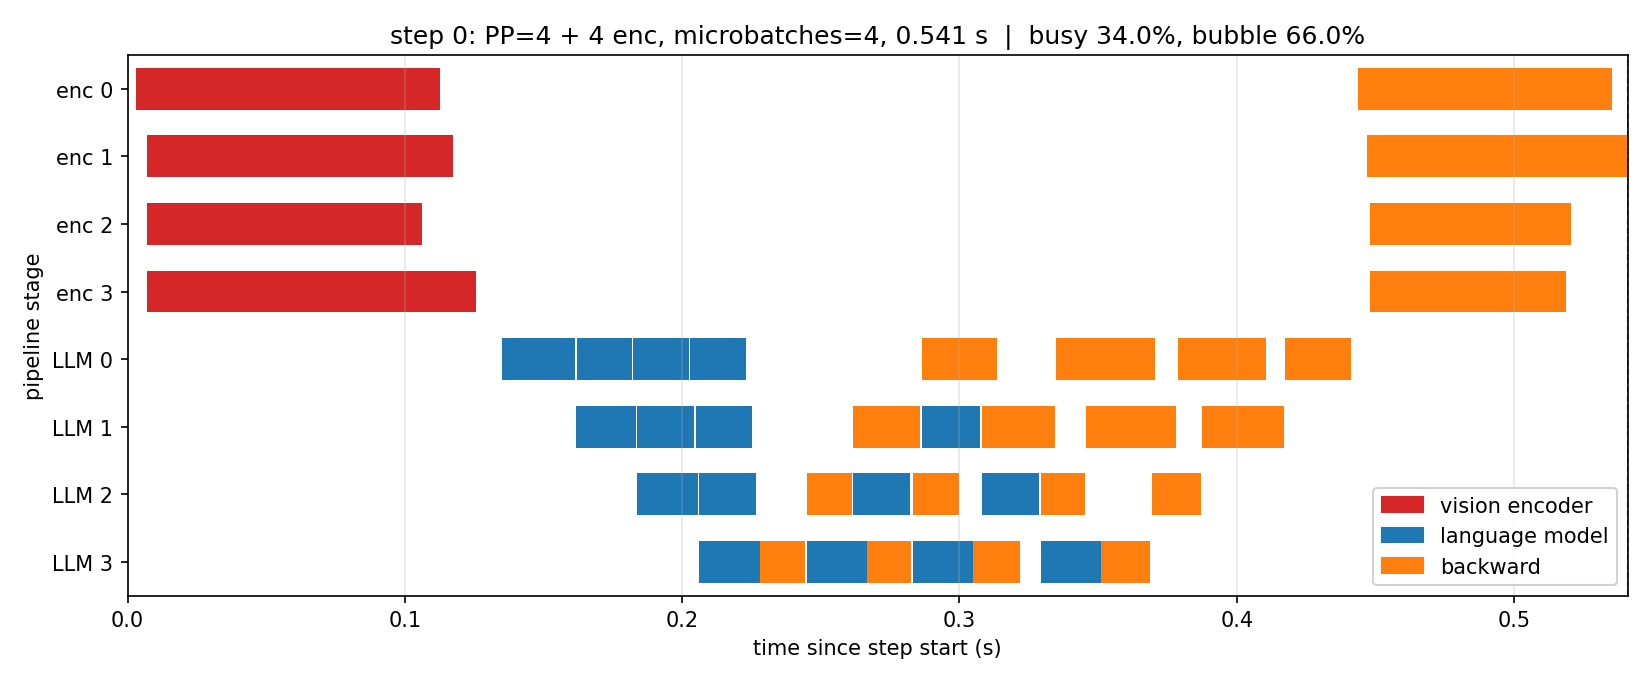
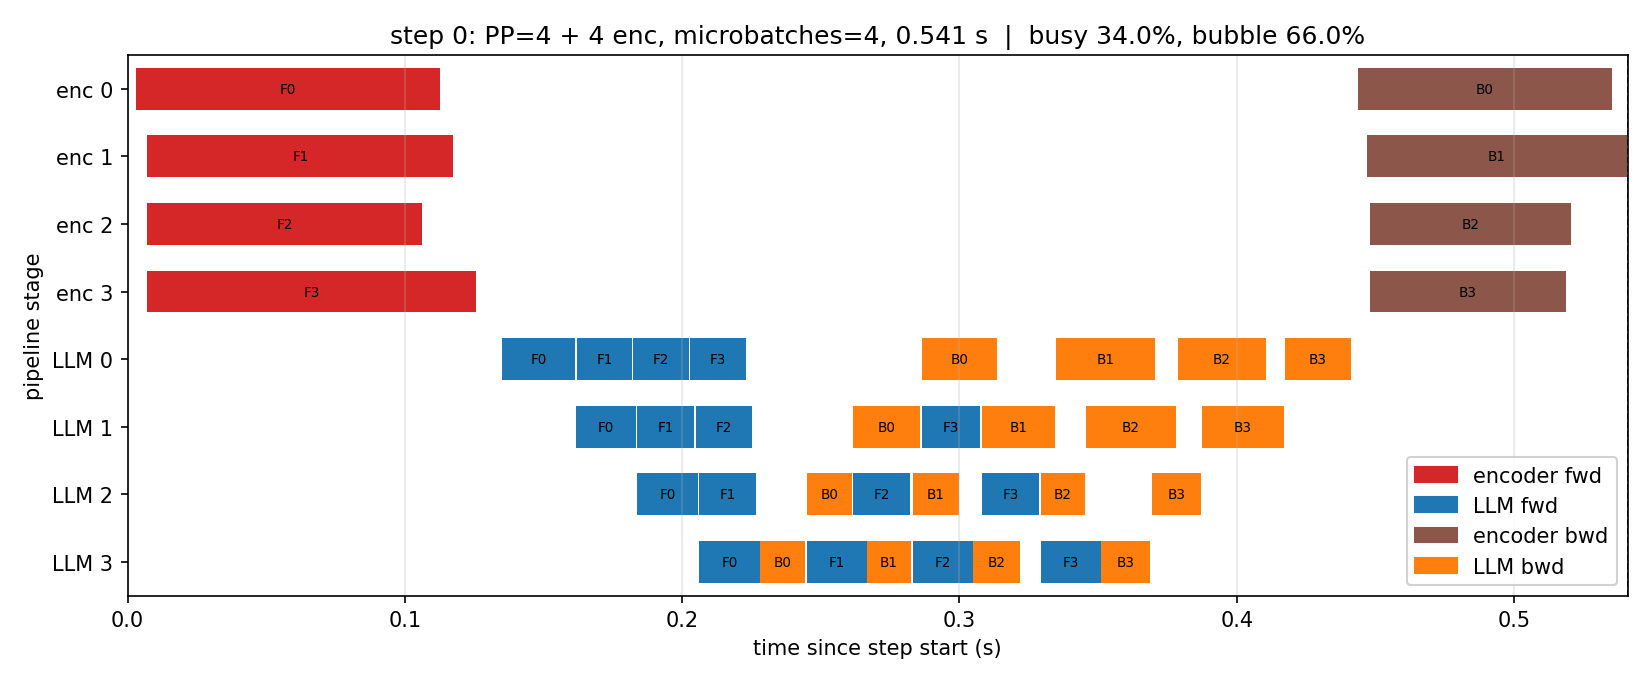
gantt: separate encoder/LLM backward colours and per-block F/B labels

Changed region(s): [[0.8036, 0.0922, 0.9891, 0.369], [0.8345, 0.6764, 0.9891, 0.8609], [0.8036, 0.3997, 0.9582, 0.4612]]

diff --git a/track_b_cluster/scripts/plot_pipeline_gantt.py b/track_b_cluster/scripts/plot_pipeline_gantt.py
@@ -1,9 +1,10 @@
 """Draw the pipeline utilization diagram for one benchmark step.
 
 x = time since the step started, y = pipeline stage (PP rank). Each recorded busy
-interval is a filled bar (vision encoder, language model, backward), so fill, steady
-state and drain are visible as the staircase of bars. Requires the `busy_intervals`
-field that pp2_equivalence.py writes in benchmark mode.
+interval is a filled bar, labelled with its microbatch: F<k> forward, B<k> backward.
+Encoder and LLM backwards get different colours when the record is a disaggregated
+run (`enc_world` tells the encoder ranks apart). Requires the `busy_intervals` field
+that pp2_equivalence.py / disagg_units.py write.
 
     python3 plot_pipeline_gantt.py --input runs/.../pp_native_scale_pp8-bench_m8.jsonl
 
@@ -19,10 +20,14 @@ matplotlib.use("Agg")
 import matplotlib.patches as mpatches
 import matplotlib.pyplot as plt
 
-COLORS = {"enc": "tab:red", "llm": "tab:blue", "bwd": "tab:orange",
-          "sync": "tab:gray", "fwd": "tab:gray"}
-LABELS = {"enc": "vision encoder", "llm": "language model", "bwd": "backward",
-          "sync": "grad all-reduce", "fwd": "forward"}
+COLORS = {"enc": "tab:red", "llm": "tab:blue", "enc_bwd": "tab:brown",
+          "llm_bwd": "tab:orange", "bwd": "tab:orange", "sync": "tab:gray",
+          "fwd": "tab:gray"}
+NAMES = {"enc": "encoder fwd", "llm": "LLM fwd", "enc_bwd": "encoder bwd",
+         "llm_bwd": "LLM bwd", "bwd": "backward", "sync": "grad all-reduce",
+         "fwd": "forward"}
+ORDER = ("enc", "llm", "fwd", "enc_bwd", "llm_bwd", "bwd", "sync")
+FORWARD = ("enc", "llm", "fwd")
 
 
 def load_step(path, step):
@@ -32,6 +37,44 @@ def load_step(path, step):
             if row.get("step") == step:
                 return row
     raise SystemExit("step %d not found in %s" % (step, path))
+
+
+def split_backwards(row, intervals):
+    """Disaggregated runs: rank < enc_world is the encoder unit, the rest is the LLM."""
+    base = int(row.get("enc_world") or 0)
+    if not base:
+        return intervals
+    out = []
+    for iv in intervals:
+        rank, kind = int(iv[0]), iv[1]
+        if kind == "bwd":
+            kind = "enc_bwd" if rank < base else "llm_bwd"
+        out.append([rank, kind] + list(iv[2:]))
+    return out
+
+
+def label_blocks(row, intervals):
+    """F<k>/B<k> per bar. Uses the recorded microbatch id when present, else the
+    position in that rank's stream (1F1B runs each rank's microbatches in order); the
+    encoder unit's k-th bar on rank r is microbatch r + k*enc_world."""
+    base = int(row.get("enc_world") or 0)
+    counted = {}
+    labelled = []
+    for iv in sorted(intervals, key=lambda x: (int(x[0]), x[2])):
+        rank, kind, start, end = int(iv[0]), iv[1], iv[2], iv[3]
+        if kind == "sync":  # not a microbatch block, no F/B label
+            labelled.append([rank, kind, start, end, ""])
+            continue
+        mb = iv[4] if len(iv) > 4 else None
+        key = (rank, kind in FORWARD)
+        idx = counted.get(key, 0)
+        counted[key] = idx + 1
+        if mb is None or mb < 0:
+            mb = (rank + idx * base if (kind in ("enc", "enc_bwd") and base)
+                  else idx)
+        prefix = "F" if kind in FORWARD else "B"
+        labelled.append([rank, kind, start, end, "%s%d" % (prefix, mb)])
+    return labelled
 
 
 def main():
@@ -48,8 +91,9 @@ def main():
             "%s has no busy_intervals; re-run the benchmark with the current "
             "pp2_equivalence.py" % args.input)
 
+    intervals = label_blocks(row, split_backwards(row, intervals))
     step_time = float(row["step_time_s"])
-    ranks = sorted({int(iv[0]) for iv in intervals})
+    ranks = sorted({iv[0] for iv in intervals})
     labels = row.get("rank_labels") or {}
     # A wrong offset basis (e.g. absolute CUDA timestamps) would put bars outside
     # the step window; fail loudly instead of drawing a misleading chart.
@@ -58,15 +102,18 @@ def main():
         raise SystemExit("intervals outside [0, step_time]; bad record: %r" % (bad[0],))
 
     fig, ax = plt.subplots(figsize=(11, 1.2 + 0.42 * len(ranks)))
-    for rank, kind, start, end in intervals:
+    for rank, kind, start, end, text in intervals:
         if end - start <= 0:  # zero-width interval: nothing to draw
             continue
         ax.barh(rank, end - start, left=start, height=0.62,
                 color=COLORS.get(kind, "tab:gray"), edgecolor="none")
+        if end - start > 0.012 * step_time and text:  # only label readable bars
+            ax.text((start + end) / 2, rank, text, ha="center", va="center",
+                    fontsize=6.5, color="black", clip_on=True)
 
     busy = sum(iv[3] - iv[2] for iv in intervals)
     util = busy / (len(ranks) * step_time)
-    bwd_total = sum(iv[3] - iv[2] for iv in intervals if iv[1] == "bwd")
+    bwd_total = sum(iv[3] - iv[2] for iv in intervals if "bwd" in iv[1])
     ax.set_yticks(ranks)
     ax.set_yticklabels([labels.get(str(r), "PP %d" % r) for r in ranks])
     ax.invert_yaxis()  # stage 0 at the top
@@ -83,8 +130,8 @@ def main():
         % (row["step"], stage_desc, row.get("num_microbatches", "?"), step_time,
            100 * util, 100 * (1 - util),
            "" if bwd_total > 0.01 * busy else "  [backward not captured]"))
-    ax.legend(handles=[mpatches.Patch(color=COLORS[k], label=LABELS[k])
-                       for k in ("enc", "llm", "bwd", "sync", "fwd")
+    ax.legend(handles=[mpatches.Patch(color=COLORS[k], label=NAMES[k])
+                       for k in ORDER
                        if any(iv[1] == k and iv[3] - iv[2] > 0 for iv in intervals)],
               loc="lower right", framealpha=0.9)
 
